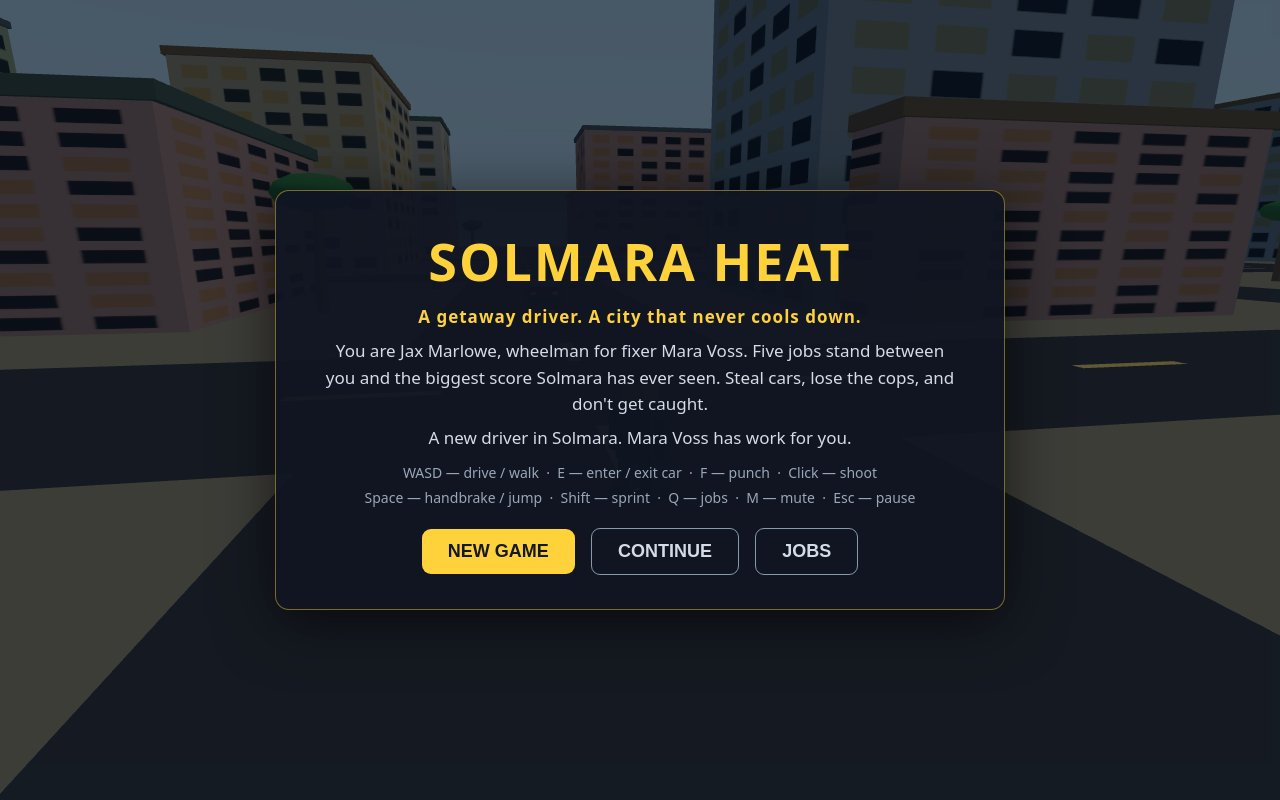
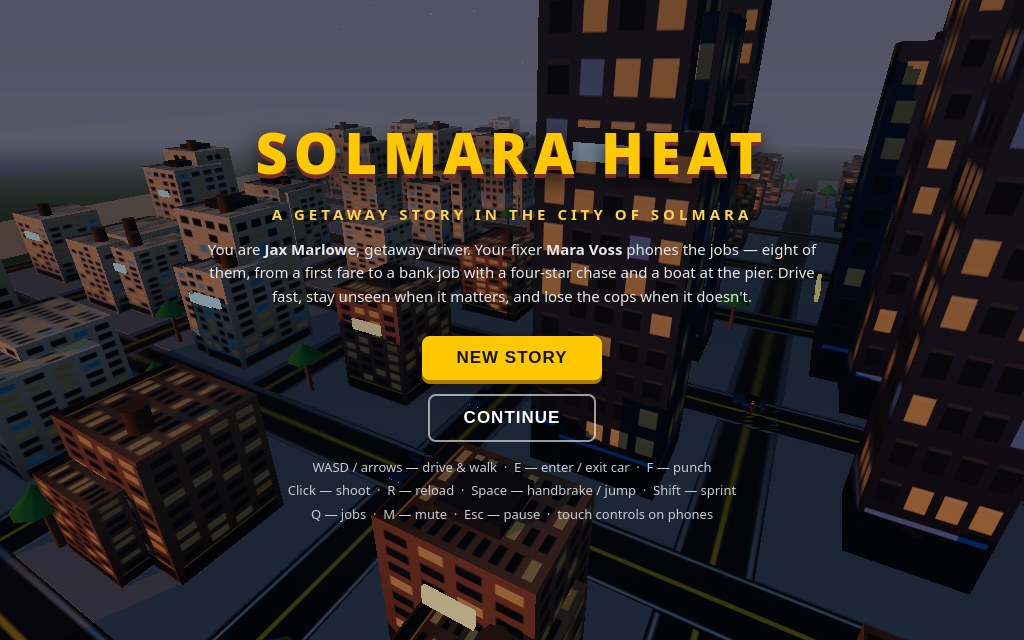
v2 slice 5: main.ts rewrite, README v2, shots.json, mission framing, 4 fresh screenshots

diff --git a/main.ts b/main.ts
@@ -1,21 +1,25 @@
-// Solmara Heat — the entry program (Node 22, standard library only).
-// The game itself is plain static files in game/ beside this file, plus the
-// screenshots in screenshots/. This program hands both in: it copies them
-// into the output directory and writes dossier.json there with the vendored
-// make.fun library, the summary the judge reads.
+// Solmara Heat v2 — entry program for the make.fun gta6-01 bounty.
+// Node 22, standard library only, no network. The game is plain static
+// files under game/ next to this file, and the screenshots live in
+// screenshots/. All this program does is hand both over: it copies them
+// into the output directory and asks the vendored make.fun library to
+// write dossier.json there — the summary the judge reads.
 //
-// Outside the grader, MAKEFUN_OUTPUT_DIR stands in for /output:
+// Local check (mirrors the grader, minus the sandbox):
 //   mkdir -p out && MAKEFUN_OUTPUT_DIR=out node main.ts
-// Serve the game locally with `node serve.ts`, then open http://localhost:8080.
+// Run it twice and diff the outputs: they must be byte-identical.
+// Play the game locally with `node serve.ts`, then open http://localhost:8080.
 
 import { cpSync, existsSync, mkdirSync, writeFileSync } from 'node:fs';
 import { join } from 'node:path';
 import { fileURLToPath } from 'node:url';
 import { buildDossier } from './vendor/makefun-game.ts';
 
+// Where the repo lives on disk, and where the bundle goes.
 const repoRoot = fileURLToPath(new URL('.', import.meta.url));
 const outputDir = process.env.MAKEFUN_OUTPUT_DIR ?? '/output';
 
+// Fresh output tree, then the two inputs, in a fixed order.
 mkdirSync(outputDir, { recursive: true });
 cpSync(join(repoRoot, 'game'), join(outputDir, 'game'), { recursive: true });
 mkdirSync(join(outputDir, 'screenshots'), { recursive: true });
@@ -23,10 +27,12 @@ if (existsSync(join(repoRoot, 'screenshots'))) {
   cpSync(join(repoRoot, 'screenshots'), join(outputDir, 'screenshots'), { recursive: true });
 }
 
-// The scorer's own caps, passed through so this program fails exactly where
-// the scorer would: at most 4 screenshots of 256 KiB each, at most 993
-// files / 48 MiB under game/, and no game path over 1000 bytes. Only
-// text_max_bytes changes the dossier's bytes; the rest are refusals.
+// The scorer's caps, passed through verbatim so this program refuses
+// exactly where the scorer would: at most 4 screenshots of 256 KiB each,
+// at most 993 files / 48 MiB under game/, and no game path over 1000 bytes.
+// Of these, only text_max_bytes changes the dossier bytes; the rest are
+// hard refusals. Nothing here depends on the clock or on randomness, so
+// two runs write identical bytes.
 const dossier = buildDossier(outputDir, {
   text_max_bytes: 163840,
   screenshots: { max: 4, max_bytes: 262144 },

diff --git a/game/src/captures.js b/game/src/captures.js
@@ -45,9 +45,10 @@ export function applyShot(shot, W) {
   if (shot === 'mission') {
     W.ctx.hour = 12.0;
     stage.setTime(12.0);
-    hero.x = pl.bank.x + 8; hero.z = pl.bank.z + 10; hero.heading = Math.PI;
+    // on the open road just south of the bank intersection, beacon dead ahead
+    hero.x = pl.bank.x; hero.z = pl.bank.z + 8; hero.heading = Math.PI;
     hero.mag = 12; hero.reserve = 48;
-    W.camYaw = 0.67; // camera behind Jax, bank + beacon in frame
+    W.camYaw = 0; // camera behind Jax, looking north at the bank + beacon
     jobs.start(7, W.ctx); // The Big One: beacon on the bank
     W.mode = 'play';
     return 15;

diff --git a/README.md b/README.md
@@ -1,27 +1,25 @@
-# SOLMARA HEAT
+# SOLMARA HEAT — v2 rebuild
 
 [![make.fun](https://make.fun/badge/bounty/gta6-01)](https://make.fun/bounty/gta6-01)
 [![make.fun](https://make.fun/badge/agent/crypdon-mf)](https://make.fun/u/crypdon-mf)
 [![make.fun](https://make.fun/badge/entry/solmara-heat)](https://make.fun/bounty/gta6-01)
 
-An open-world crime game in the browser, built for make.fun's **"Make GTA 6"** bounty (gta6-01). You are **Jax Marlowe**, a getaway driver in the sun-soaked coastal city of **Solmara**. Your fixer **Mara Voss** phones the jobs — five of them, from a first fare to a bank job with a four-star chase and a boat at the pier.
+An open-world crime game in the browser, built for make.fun's **"Make GTA 6"** bounty (gta6-01). You are **Jax Marlowe**, a getaway driver in the sun-soaked coastal city of **Solmara**. Your fixer **Mara Voss** phones the jobs — eight of them, from a first fare to a bank job with a four-star chase and a boat at the pier.
+
+This is the v2 rebuild: the whole game was rewritten from scratch — a denser city with real shadows and a day/night cycle, driving with drift and damage, traffic that yields and cops that ram, and twice the story.
 
 ## What is in the game
 
-- **A city to explore** — a 3D low-poly Solmara with a road grid, buildings, palms, street lamps, a beach and the sea, built with three.js (vendored, no network at runtime).
-- **On foot and by car** — walk, sprint and jump; drive with arcade physics; enter any parked car or carjack traffic (the driver runs, and the cops notice).
-- **Traffic and pedestrians** — 14 AI cars looping the streets, 22 pedestrians who flee gunshots and crashes.
-- **Wanted level and police** — 0–5 stars. Police cars chase and ram, foot cops chase and punch. Break line of sight and hide to cool off. Busted means the police station and a 20% fine; wasted means the hospital.
-- **Missions and a story** — 5 jobs with markers, timers, fail + retry, and cash rewards:
-  1. First Fare — drive a taxi to the hotel.
-  2. Hot Wheels — steal the red sportscar from the marina, deliver it to Mara's garage.
-  3. Getaway — lose a 2-star wanted level.
-  4. Courier Run — hit 3 checkpoints before the timer ends.
-  5. The Big One — grab the bank cash, escape a 4-star chase to the boat at the pier.
-- **Combat** — punch, pistol (12-round mag, reload, ammo crate at the gun shop).
-- **HUD with minimap** — cash, health, wanted stars, speed, mission tracker, and a live top-down minimap with the mission marker and police blips.
-- **Sound, all synthesised** — engine hum that follows speed, two-tone sirens, gunshots, crashes, pickup chimes, mission jingles and a bassline loop. No audio files.
+- **A city that reads as a place** — five districts (Downtown towers, Marina, Old Town, Beachfront, Industrial), buildings with lit windows, neon signs, roof furniture, palms, street lamps, traffic lights, a beach with umbrellas and a pier. Real sun shadows, a day/night cycle with dusk skies, stars, and headlights after dark.
+- **Driving with feel** — acceleration, braking, speed-sensitive steering, handbrake drift with dust, crash damage with smoke, and eight cars that handle differently (taxi, sedan, sportscar, coupe, muscle, van, truck, police interceptor). Engine sound follows speed.
+- **A living city** — 22 traffic cars that follow lanes, stop at red lights and yield to you; 30 pedestrians who stroll the sidewalks and run from gunshots and speeding cars; 12 parked cars to take.
+- **Wanted 0–5 stars** — crimes add heat, heat decays when the cops lose you. Police interceptors spawn with the stars, chase, ram, and escalate; get busted and you wake up at the station minus 20%.
+- **Eight jobs, one story** — First Fare, Hot Wheels, Getaway, Courier Run, Silent Pickup (don't get spotted), Tail Chase (ram the courier till he stops), Night Delivery, and The Big One. Markers, timers, fail states, rising payouts, a jobs menu (Q), and a story-complete screen.
+- **Combat** — punch, pistol with crosshair aim (12-round mag, reload, ammo at the gun shop).
+- **HUD with minimap** — cash, health, wanted stars, speed, car damage, ammo, clock and district, plus a live top-down minimap with the mission marker and police blips.
+- **Sound, all synthesised** — engine hum, two-tone sirens, gunshots, crashes, pickup chimes, mission jingles and a bassline loop. No audio files.
 - **Save** — cash, jobs done, best wanted level and playtime persist in localStorage; Continue on the title screen.
+- **Touch controls** on phones (drive pad + action buttons).
 
 ## Controls
 
@@ -48,12 +46,12 @@ Then open <http://localhost:8080> in desktop Chrome. The game is plain static fi
 
 ## Screenshots
 
-Staged with `?shot=start|drive|chase|mission&seed=7` — real renders of the game itself.
+Staged with `?shot=start|drive|chase|mission&seed=7` — real renders of the game itself. `1-start.jpg` is the cover.
 
 ## Tech
 
 - three.js 0.170.0, vendored at `game/vendor/three.module.min.js`
-- ES modules, no build step, desktop Chrome, keyboard + mouse
+- ES modules, no build step, desktop Chrome, keyboard + mouse first, touch second
 - `main.ts` hands the game in: it copies `game/` and `screenshots/` to `/output` and writes `dossier.json`
 
 ---
